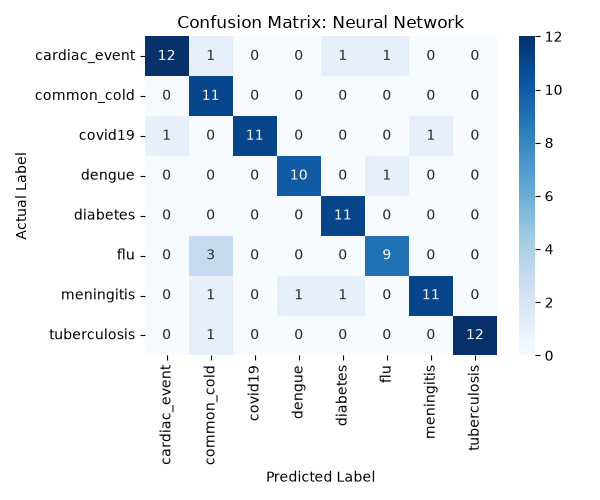
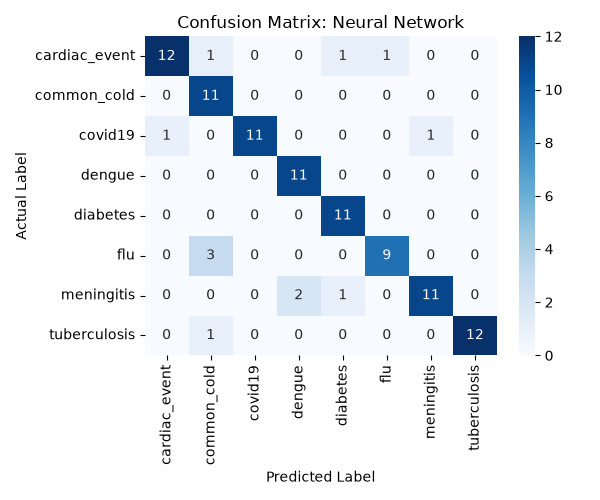
Add Flask web interface dashboard and update requirements.txt and README.md

diff --git a/README.md b/README.md
@@ -242,9 +242,16 @@ pip install -r requirements.txt
 
 ```bash
 python app.py
+
 ```
+## 🌐 Running the Applications
+
+### 1. Launch the Web Interface (Recommended)
+```bash
+python web/index.py
 
 ---
+Open your browser and navigate to http://localhost:5000 to access the interactive single-page dashboard!
 
 # ▶ Sample Console Output
 
